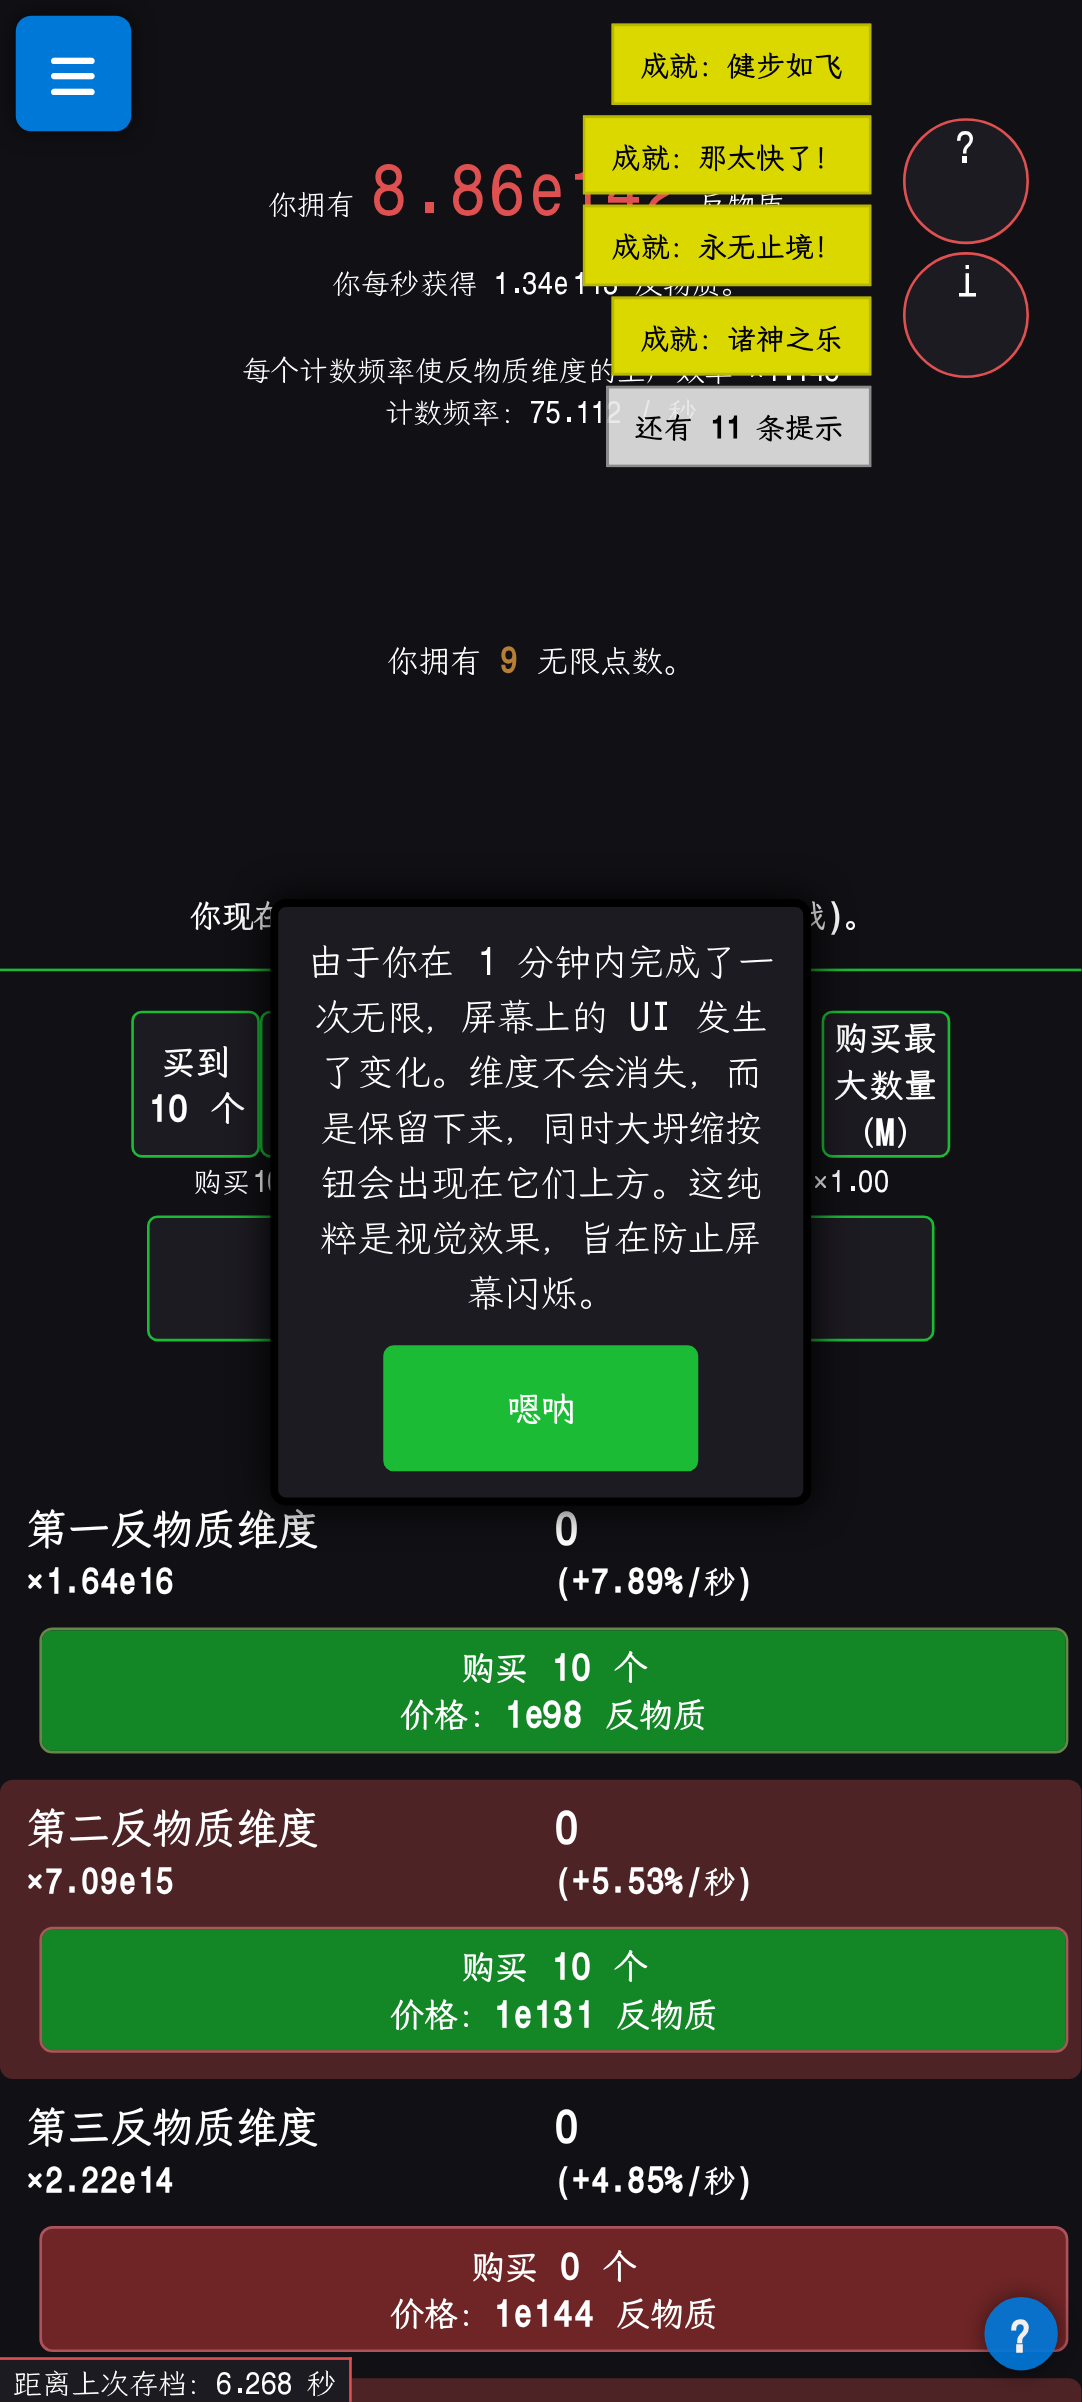
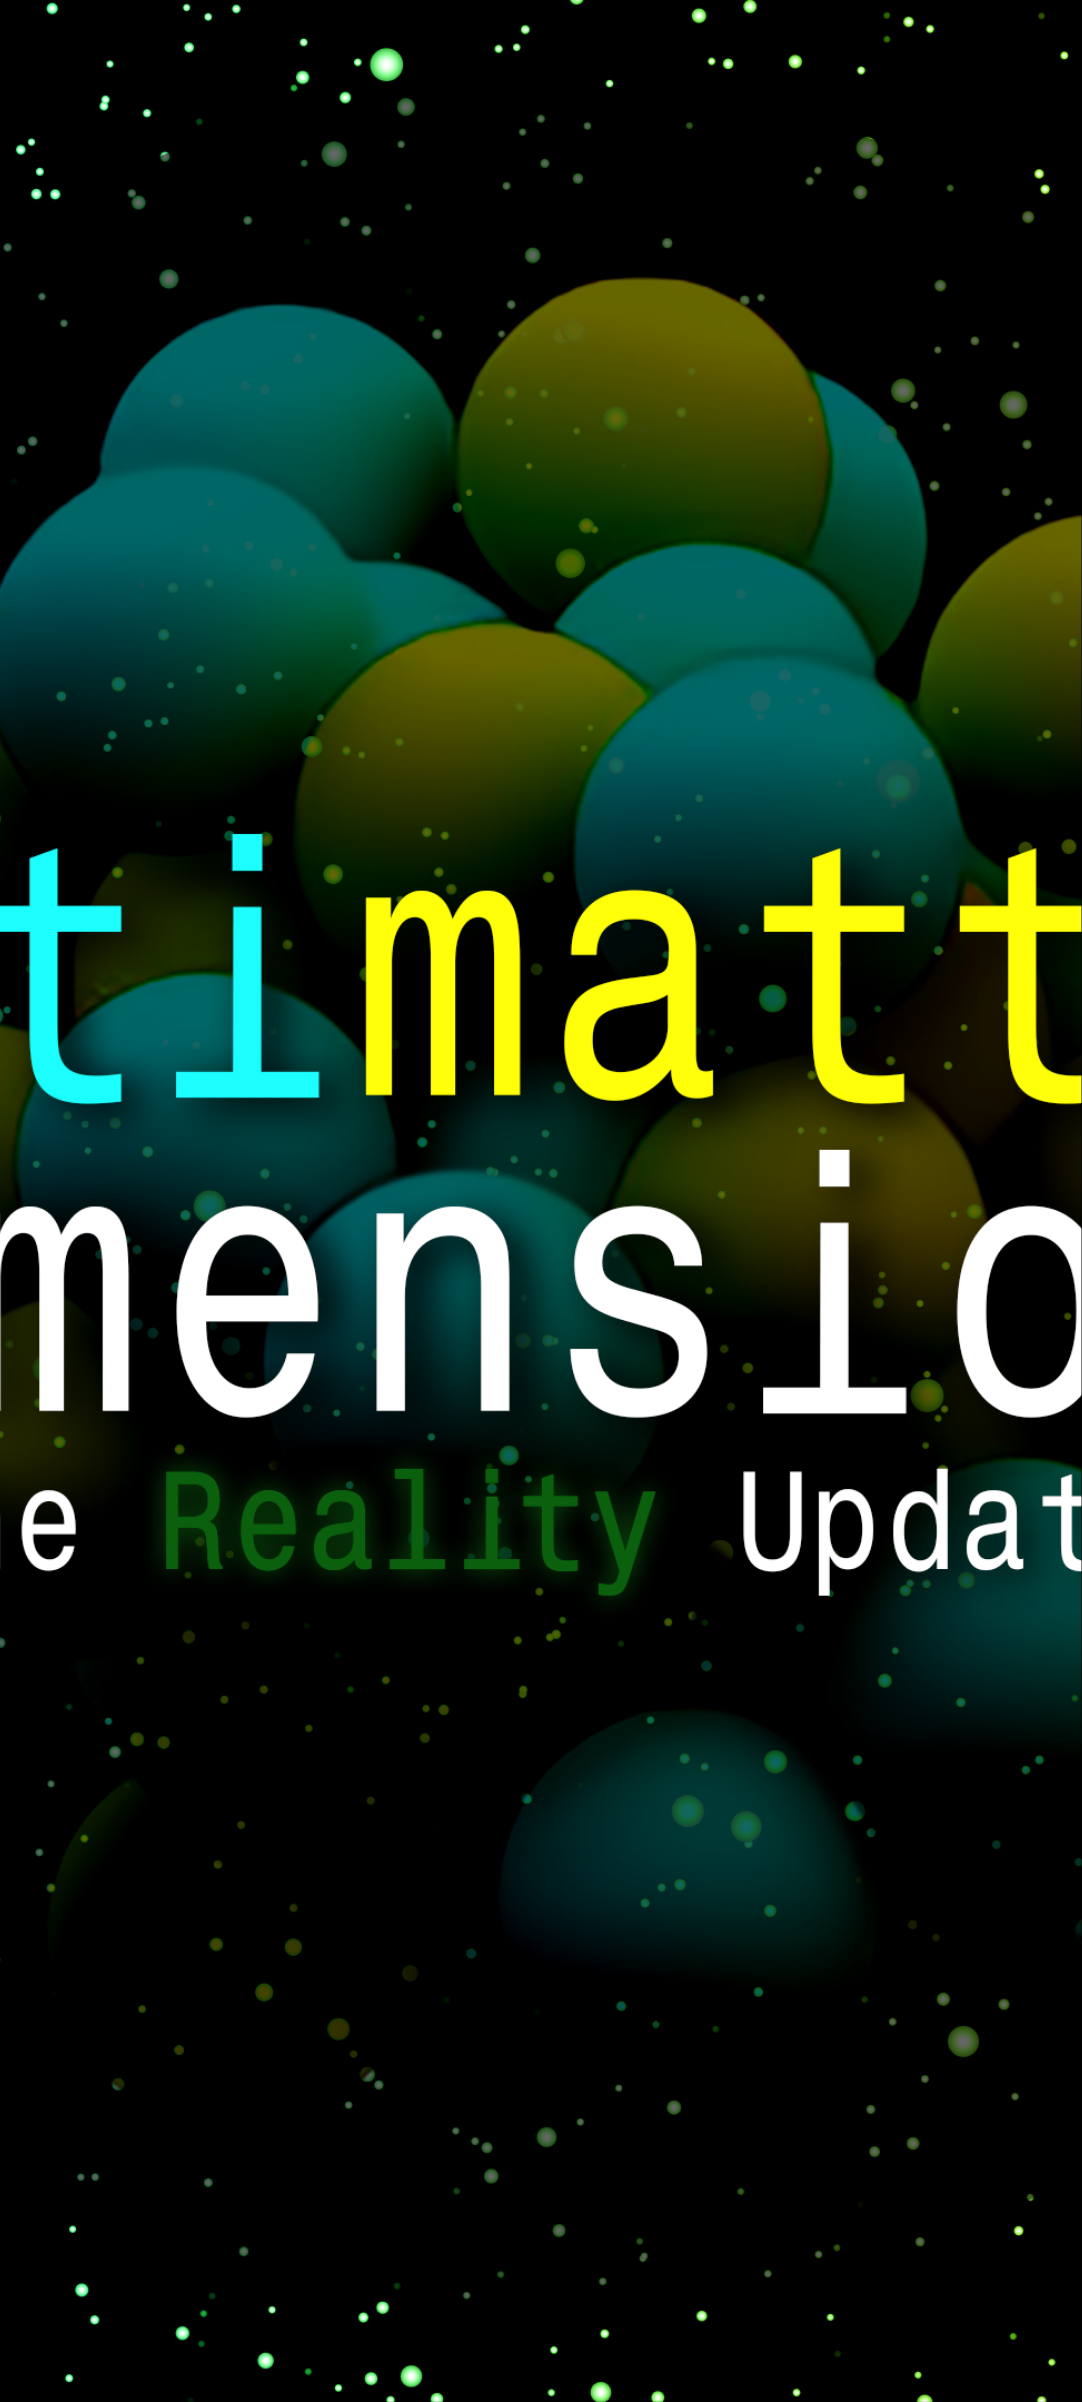
R120-01：修复 AI 审查发现的托管门禁与重载验收

diff --git a/src/core/oreki-managed-crunch-interval.js b/src/core/oreki-managed-crunch-interval.js
@@ -252,13 +252,20 @@ function clearReleaseWindow() {
  * 只认最近一次与紧邻上一次（上一拍仅限 15 秒落盘窗口内）；不把 5/60/3600
  * 这类玩家可选值长期纳入匹配，避免把玩家手设值误判为托管值。
  */
-function persistedContainsManagedValue(persisted, seconds, { includePrevious = true, now = Date.now() } = {}) {
+function persistedContainsManagedValue(
+  persisted,
+  seconds,
+  mode,
+  { includePrevious = true, now = Date.now() } = {},
+) {
   if (!persisted || !Number.isFinite(seconds)) return false;
-  if (sameInterval(persisted.writtenTime, seconds)) return true;
+  const modeMatches = persisted.writtenMode === null ||
+    Number.isInteger(mode) && persisted.writtenMode === mode;
+  if (sameInterval(persisted.writtenTime, seconds) && modeMatches) return true;
   if (!includePrevious || !Number.isFinite(persisted.previousWrittenTime)) return false;
   if (!Number.isFinite(persisted.updatedAt) ||
       now - persisted.updatedAt > PREVIOUS_WRITE_MATCH_WINDOW_MS) return false;
-  return sameInterval(persisted.previousWrittenTime, seconds);
+  return sameInterval(persisted.previousWrittenTime, seconds) && modeMatches;
 }
 
 function hostingIntervalMs() {
@@ -274,6 +281,21 @@ function hostingIntervalMs() {
 function isPelleDoomed() {
   try {
     return typeof Pelle !== "undefined" && Pelle && Pelle.isDoomed === true;
+  } catch (e) {
+    return false;
+  }
+}
+
+function isManagedContextOpen() {
+  try {
+    const executor = globalThis.OrekiSmartExecutor;
+    if (executor && executor.enabled === false) return false;
+    if (typeof player === "undefined" || !player || !player.auto ||
+        player.auto.autobuyersOn !== true) return false;
+    const sprint = globalThis.OrekiIu15Sprint;
+    if (sprint && sprint.active === true) return false;
+    const crunch = globalThis.Autobuyer && globalThis.Autobuyer.bigCrunch;
+    return Boolean(crunch && (crunch.isUnlocked === true || crunch.isBought === true));
   } catch (e) {
     return false;
   }
@@ -315,6 +337,7 @@ export class OrekiManagedCrunchInterval {
     } catch (e) {
       return false;
     }
+    if (!isManagedContextOpen()) return false;
     const resolvedTick = resolveTick(tick);
     if (resolvedTick === null) return false;
     if (resolvedTick === STATE.lastTick) return false;
@@ -344,7 +367,7 @@ export class OrekiManagedCrunchInterval {
         (persistedBefore.sessionId !== MANAGED_TIME_SESSION_ID ||
           STATE.originalSaveId !== saveId) &&
         !sameInterval(persistedBefore.originalTime, persistedBefore.writtenTime) &&
-        persistedContainsManagedValue(persistedBefore, actual);
+        persistedContainsManagedValue(persistedBefore, actual, actualMode);
       STATE.originalTime = persistedUsable ? persistedBefore.originalTime : actual;
       STATE.originalMode = persistedUsable && persistedBefore.originalMode !== null
         ? persistedBefore.originalMode
@@ -418,7 +441,7 @@ export class OrekiManagedCrunchInterval {
     const inMemorySave = STATE.originalSaveId === null || saveId === null ||
       STATE.originalSaveId === saveId;
     const persistedHit = persistedUsable &&
-      persistedContainsManagedValue(persisted, actual);
+      persistedContainsManagedValue(persisted, actual, actualMode);
     // 内存 lastValue 只在同一存档内有效；换档后必须用目标档的持久化写出值，
     // 否则会把上一档的 lastValue 与当前档 actual 比较，误判玩家手改。
     const lastValue = inMemorySave && STATE.lastValue !== null
@@ -441,8 +464,24 @@ export class OrekiManagedCrunchInterval {
     const changed = changedTime || changedMode;
 
     // 玩家在最后一次托管写入后手改过 ⇒ 尊重玩家，确认无需写回后再清理。
-    if ((lastValue !== null && !sameInterval(actual, lastValue)) ||
-        (lastMode !== null && actualMode !== lastMode)) {
+    const timeOverridden = lastValue !== null && !sameInterval(actual, lastValue);
+    const modeOverridden = lastMode !== null && actualMode !== lastMode;
+    if (timeOverridden || modeOverridden) {
+      let wrote = false;
+      try {
+        if (!timeOverridden && changedTime) {
+          writeActualInterval(original);
+          wrote = true;
+        }
+        if (!modeOverridden && changedMode) {
+          writeActualMode(originalMode);
+          wrote = true;
+        }
+      } catch (e) {
+        STATE.lastTick = 0;
+        STATE.released = false;
+        return false;
+      }
       STATE.lastTick = 0;
       STATE.originalTime = null;
       STATE.originalMode = null;
@@ -453,9 +492,10 @@ export class OrekiManagedCrunchInterval {
       STATE.releasedSaveId = saveId;
       clearPersistedManagedTime(saveId);
       console.info(
-        `[OrekiCrunchInterval] mod-off restore skipped: player override time=${actual} mode=${actualMode}`
+        `[OrekiCrunchInterval] mod-off partial restore ` +
+          `timeOverride=${timeOverridden} modeOverride=${modeOverridden} wrote=${wrote}`
       );
-      return false;
+      return wrote;
     }
 
     if (!changed) {
@@ -522,6 +562,7 @@ export class OrekiManagedCrunchInterval {
     } catch (e) {
       return false;
     }
+    if (!isManagedContextOpen()) return false;
     // [R97] 允许调用方传入本帧**唯一**一次 OrekiCrunchPolicy.decide() 的结果：
     // decide() 内部会推进坍缩等待计时，同一帧重复调用可能得出不同结论。
     if (!decision) {
